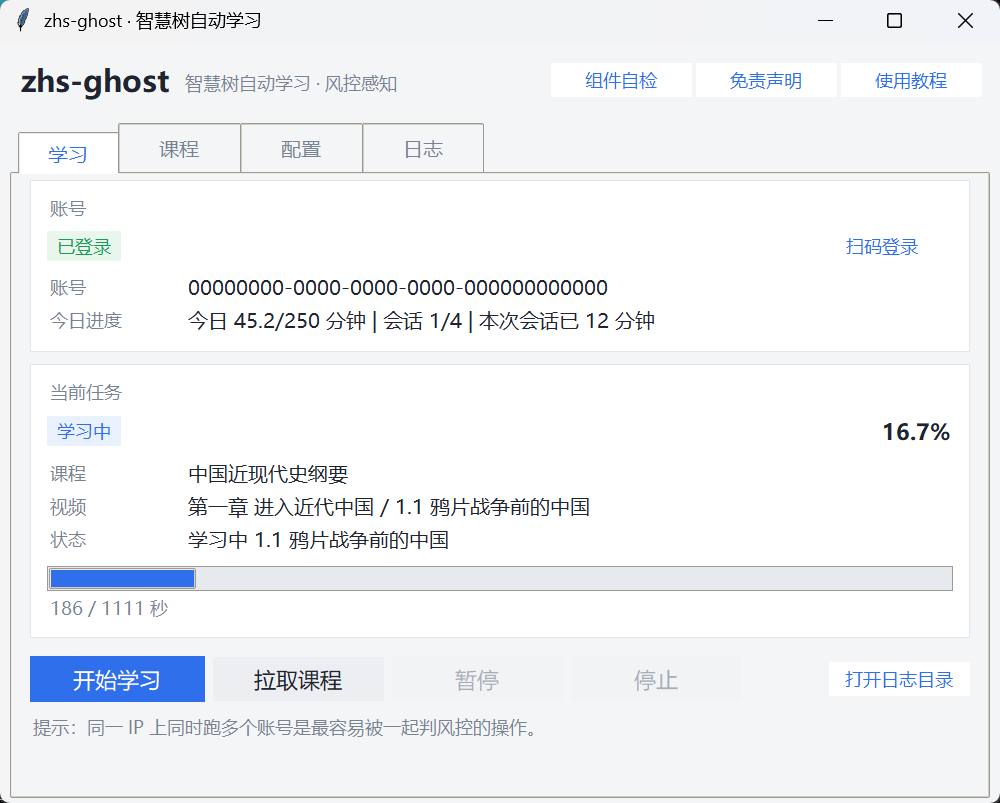
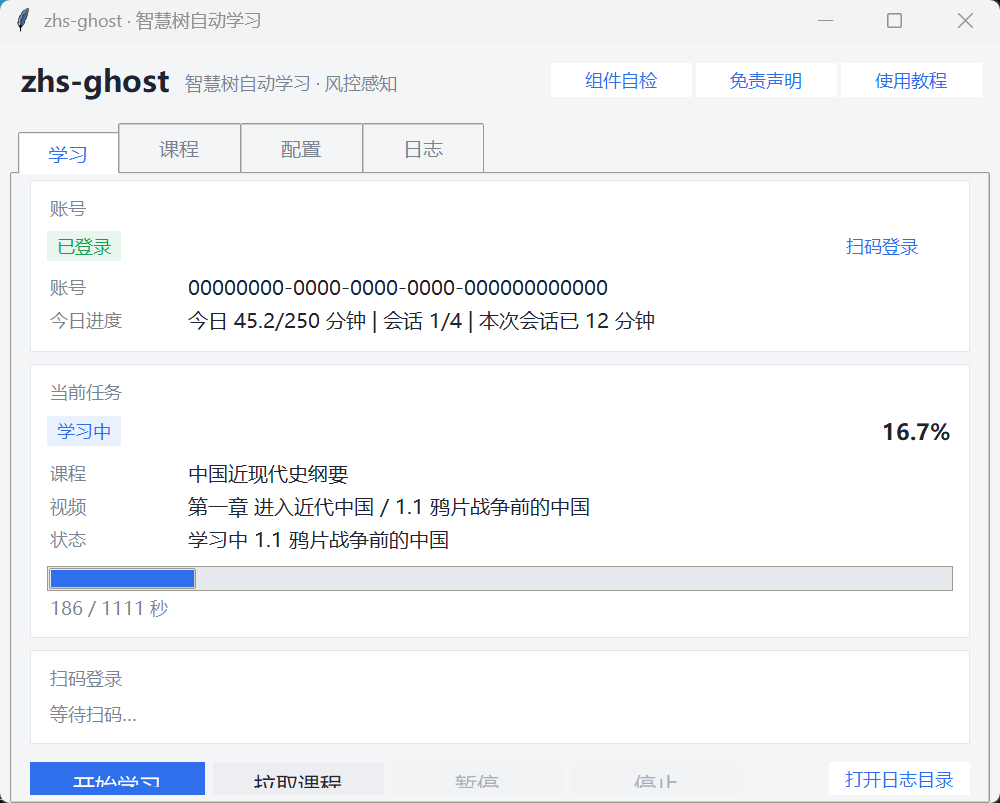
fix(gui): 二维码被压扁到看不见 —— 改成独立窗口
用户反馈：点「扫码登录」之后没有二维码出来。

## 根因

二维码卡片是主界面里的最后一张卡片（`pack()` 默认追加到末尾）。而主界面
高度根本不够：

    账号卡 142 + 任务卡 218 + 二维码 300 + 按钮行 50 + 提示 30 = 740
    实际可用高度                                                = 593

Tk 的 pack 在空间不足时会压缩控件。实测 240x240 的二维码图被压成
**240x94** —— 看起来就是"点了按钮但什么都没发生"。

## 修复

二维码改成独立窗口（Toplevel）：

- 380x380（原来 240，太小不好扫）
- 置顶，居中于主窗口
- 主界面只留一行状态：「二维码已打开，请在弹出的窗口中扫码」
- 关掉弹窗 = 放弃登录，顺带停掉登录任务
- 登录成功后自动关闭

顺带把登录任务的 `running` 改成 True —— 扫码期间「停止」按钮要可用，
用户得能主动放弃。

## 排查方式

`_diag_qr.py`（临时脚本，已删）直接把控件实际尺寸打出来：

    to_photo -> 240x240      ← 图片本身没问题
    qr_label 尺寸: 240x94    ← 被布局压扁了

一眼就能区分"图没生成"和"图生成了但被挤掉"，不用猜。

## 文档

新增 docs/images/gui-qr.png，README 的快速开始里加上。

diff --git a/zhsgo/gui/tab_study.py b/zhsgo/gui/tab_study.py
@@ -65,12 +65,17 @@ class StudyTab(tk.Frame):
         self.lbl_detail.pack(fill="x")
 
         # ---------------------------------------------------------- 二维码
+        # 二维码用独立窗口显示（见 show_qr）。主界面里的面积不够，
+        # 240x240 的图会被 pack 压成 240x94 —— 看起来就像"没出二维码"。
+        # 这里只在主界面留一个状态行。
         self.qr_card = Card(self, "扫码登录")
-        self.qr_label = tk.Label(self.qr_card.body, bg=P["card"], bd=0)
-        self.qr_label.pack()
-        self.qr_hint = tk.Label(self.qr_card.body, text="用「知到」App 扫描上方二维码",
+        self.qr_hint = tk.Label(self.qr_card.body, text="等待扫码…",
                                 bg=P["card"], fg=P["muted"], font=fonts()["small"])
-        self.qr_hint.pack(pady=(6, 0))
+        self.qr_hint.pack(anchor="w")
+        # 主界面只留一行状态提示，二维码本体在独立窗口里
+        self.qr_card.pack(fill="x", padx=18, pady=6)
+        self._qr_window: Optional[tk.Toplevel] = None
+        self._qr_label: Optional[tk.Label] = None
 
         # ---------------------------------------------------------- 操作
         actions = tk.Frame(self, bg=P["bg"])
@@ -161,22 +166,96 @@ class StudyTab(tk.Frame):
     # ------------------------------------------------------------ 二维码
 
     def show_qr(self, image_bytes: bytes) -> None:
+        """用独立窗口显示二维码。
+
+        最早是把它当成主界面里的一张卡片。实测不行：主界面本来就装不下
+        （账号卡 142 + 任务卡 218 + 二维码 300 + 按钮行 50 > 可视 593），
+        pack 会把二维码压扁 —— 240x240 的图被压成 240x94，看起来就是
+        "点了扫码登录但没出二维码"。
+
+        独立窗口顺带解决两个问题：可以放得更大（380px，好扫），
+        也不跟主界面的布局互相抢空间。
+        """
         from .qr import to_photo
 
-        photo = to_photo(image_bytes, size=240)
+        photo = to_photo(image_bytes, size=380)
         if photo is None:
-            self.qr_hint.configure(text="二维码图片渲染失败，请改用命令行版扫码")
+            self.window.toast("二维码渲染失败，请改用命令行版扫码", "error")
+            self.qr_hint.configure(text="二维码渲染失败")
             return
-        self._qr_photo = photo
-        self.qr_label.configure(image=photo)
-        self.qr_hint.configure(text="用「知到」App 扫描上方二维码")
-        if not self.qr_card.winfo_ismapped():
-            self.qr_card.pack(fill="x", padx=18, pady=6)
+
+        win = self._qr_window
+        if win is None or not win.winfo_exists():
+            win = tk.Toplevel(self.window)
+            win.title("扫码登录 · zhs-ghost")
+            win.configure(bg=P["card"])
+            win.resizable(False, False)
+            win.transient(self.window)
+            win.protocol("WM_DELETE_WINDOW", self._on_qr_window_closed)
+
+            holder = tk.Frame(win, bg=P["card"])
+            holder.pack(padx=26, pady=22)
+
+            self._qr_label = tk.Label(holder, bg=P["card"], bd=0)
+            self._qr_label.pack()
+
+            self._qr_hint = tk.Label(holder, text="用手机「知到」App 扫描上方二维码",
+                                     bg=P["card"], fg=P["text"], font=fonts()["sub"])
+            self._qr_hint.pack(pady=(14, 2))
+            tk.Label(holder, text="扫码并在手机上确认后，本窗口会自动关闭",
+                     bg=P["card"], fg=P["muted"], font=fonts()["small"]).pack()
+
+            self._qr_window = win
+
+        self._qr_photo = photo          # 必须持引用，否则被 GC 后显示空白
+        self._qr_label.configure(image=photo)
+        # 注意：qr_hint（主界面状态行）和 _qr_hint（弹窗里的说明）
+        # 是两个不同对象，别写混
+        self._qr_hint.configure(text="用手机「知到」App 扫描上方二维码")
+        self.qr_hint.configure(text="二维码已打开，请在弹出的窗口中扫码", fg=P["text"])
+
+        win.deiconify()
+        win.lift()
+        try:
+            win.attributes("-topmost", True)
+        except Exception:
+            pass
+        self._center_qr_window()
+        win.update_idletasks()
+
+    def _center_qr_window(self) -> None:
+        win = self._qr_window
+        if win is None:
+            return
+        try:
+            win.update_idletasks()
+            w, h = win.winfo_reqwidth(), win.winfo_reqheight()
+            root = self.window
+            x = root.winfo_rootx() + (root.winfo_width() - w) // 2
+            y = root.winfo_rooty() + (root.winfo_height() - h) // 2
+            win.geometry(f"{w}x{h}+{max(x, 0)}+{max(y, 0)}")
+        except Exception:
+            pass
+
+    def _on_qr_window_closed(self) -> None:
+        """用户手动关掉二维码窗口 = 放弃这次登录。"""
+        self._qr_window = None
+        self._qr_photo = None
+        self.window.action_stop()
+        self.badge_account.set("未登录", "idle")
 
     def hide_qr(self) -> None:
-        self.qr_label.configure(image="")
+        if self._qr_window is not None:
+            try:
+                self._qr_window.destroy()
+            except Exception:
+                pass
+            self._qr_window = None
         self._qr_photo = None
-        self.qr_card.pack_forget()
+        try:
+            self.qr_hint.configure(text="等待扫码…", fg=P["muted"])
+        except Exception:
+            pass
 
     def _toggle_pause(self) -> None:
         if self._paused:

diff --git a/zhsgo/gui/window.py b/zhsgo/gui/window.py
@@ -280,7 +280,8 @@ class MainWindow(tk.Tk):
             self.tab_study.set_account(bool(uid), uid)
             self._refresh_quota()
 
-        self._run_job("登录", job, running=False, on_done=done)
+        # running=True：扫码期间「停止」要保持可用，用户得能放弃这次登录
+        self._run_job("登录", job, running=True, on_done=done)
 
     def action_fetch(self) -> None:
         app = self._ensure_app()

diff --git a/README.md b/README.md
@@ -32,7 +32,9 @@
 去 [Releases](https://github.com/skyslight1/zhs-ghost/releases) 下载，放进一个**单独的空文件夹**，双击。
 
 第一次运行会自动生成 `config.yaml`，**什么都不用改**；再点一次「扫码登录」，
-手机「知到」App 扫一下，就可以点「开始学习」了。
+会弹出一个独立窗口显示二维码，手机「知到」App 扫一下，就可以点「开始学习」了。
+
+![扫码登录](docs/images/gui-qr.png)
 
 | 文件 | 说明 | 体积 |
 |---|---|---|
